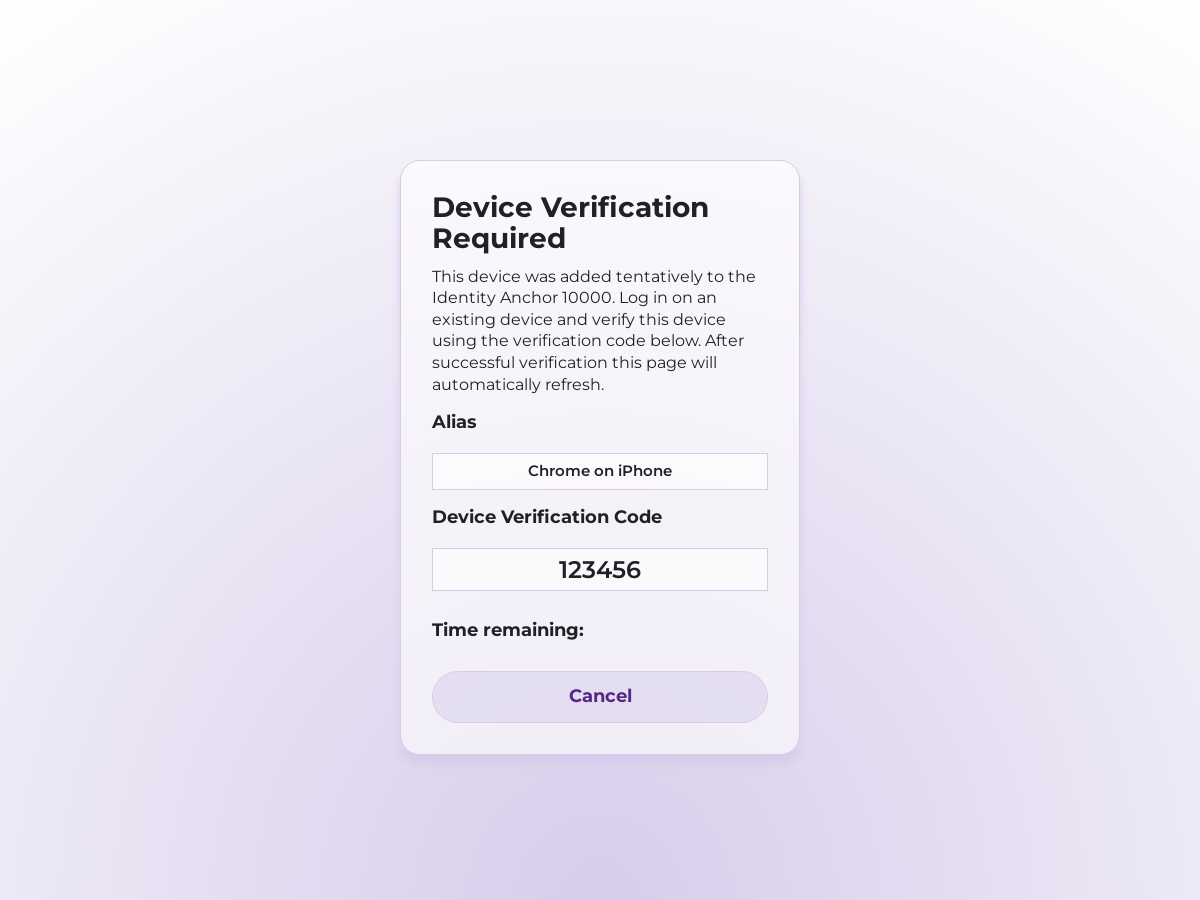
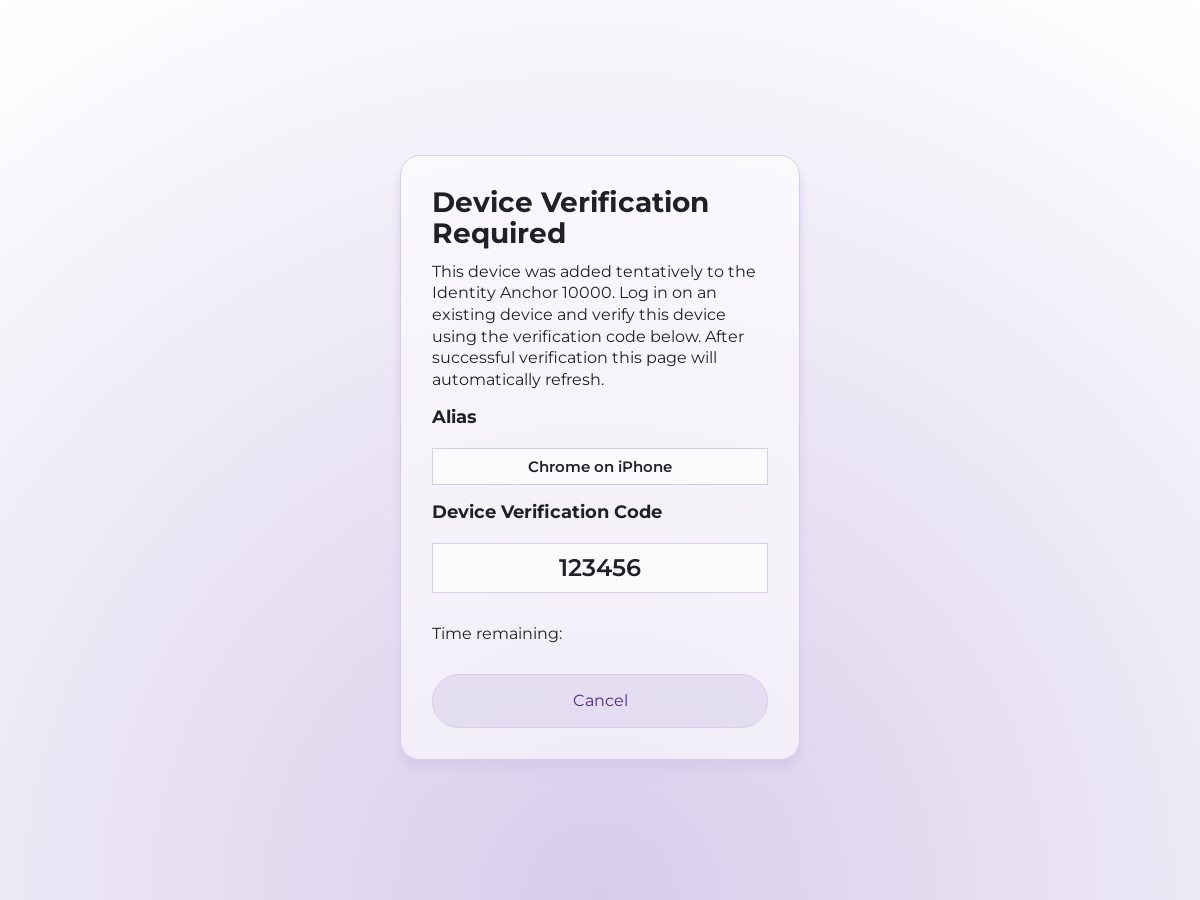
Close unclosed tags and more
I ran [`lit-analyzer`](https://github.com/runem/lit-analyzer) locally, which spotted a few issues with the code.
Those issues are fixed here.

We can't however add `lit-analyzer` to our pipeline just yet because of
some issues:
* https://github.com/runem/lit-analyzer/issues/284
* https://github.com/runem/lit-analyzer/issues/283

diff --git a/src/frontend/src/flows/recovery/recoverWith/phrase.ts b/src/frontend/src/flows/recovery/recoverWith/phrase.ts
@@ -26,8 +26,8 @@ const pageContent = (userNumber: bigint, message?: string) => html`
         background-color: unset;
       }
       50% {
-        background-color: #ED1E79;
-        border-color: #ED1E79;
+        background-color: #ed1e79;
+        border-color: #ed1e79;
       }
       100% {
         background-color: unset;
@@ -42,19 +42,28 @@ const pageContent = (userNumber: bigint, message?: string) => html`
   <article class="l-container c-card c-card--highlight">
     <hgroup>
       <h1 class="t-title t-title--main">Your seed phrase</h1>
-      <p class="t-lead">${
-        message !== undefined ? message : "Please provide your seed phrase"
-      }</p>
+      <p class="t-lead">
+        ${message !== undefined ? message : "Please provide your seed phrase"}
+      </p>
     </hgroup>
-    <textarea id="inputSeedPhrase" class="c-input" placeholder="${
-      userNumber + " above squirrel ..."
-    }"></textarea>
-    <details data-id="phrase-warnings" class="c-card c-card--highlight is-hidden">
-        <summary><span class="warnings-box-summary">Phrase may not be valid<span></summary>
-        <div id="warnings"></div>
+    <textarea
+      id="inputSeedPhrase"
+      class="c-input"
+      placeholder="${userNumber + " above squirrel ..."}"
+    ></textarea>
+    <details
+      data-id="phrase-warnings"
+      class="c-card c-card--highlight is-hidden"
+    >
+      <summary>
+        <span class="warnings-box-summary">Phrase may not be valid</span>
+      </summary>
+      <div id="warnings"></div>
     </details>
     <div class="c-button-group">
-      <button id="inputSeedPhraseCancel" class="c-button c-button--secondary">Cancel</button>
+      <button id="inputSeedPhraseCancel" class="c-button c-button--secondary">
+        Cancel
+      </button>
       <button id="inputSeedPhraseContinue" class="c-button">Continue</button>
     </div>
   </article>

diff --git a/src/frontend/src/flows/addDevice/welcomeView/showVerificationCode.ts b/src/frontend/src/flows/addDevice/welcomeView/showVerificationCode.ts
@@ -18,7 +18,7 @@ const pageContent = (
   tentativeRegistrationInfo: TentativeRegistrationInfo
 ) => html`
   <div class="l-container c-card c-card--highlight">
-    <hgroup>  
+    <hgroup>
       <h1 class="t-title t-title--main">Device Verification Required</h1>
       <p class="t-lead">
         This device was added tentatively to the Identity Anchor
@@ -28,18 +28,19 @@ const pageContent = (
       </p>
     </hgroup>
     <h2 class="t-title">Alias</h2>
-    <output class="c-input c-input--readonly t-vip t-vip--small">${alias}</output>
-    <h2 class="t-title">Device Verification Code</hs>
-    <output
-      id="verificationCode"
-      class="c-input c-input--readonly t-vip"
+    <output class="c-input c-input--readonly t-vip t-vip--small"
+      >${alias}</output
     >
+    <h2 class="t-title">Device Verification Code</h2>
+    <output id="verificationCode" class="c-input c-input--readonly t-vip">
       ${tentativeRegistrationInfo.verification_code}
     </output>
     <div class="l-stack">
       <p>Time remaining: <span id="timer"></span></p>
       <div class="l-stack">
-        <button id="showCodeCancel" class="c-button c-button--secondary">Cancel</button>
+        <button id="showCodeCancel" class="c-button c-button--secondary">
+          Cancel
+        </button>
       </div>
     </div>
   </div>

diff --git a/src/frontend/src/styleguide.ts b/src/frontend/src/styleguide.ts
@@ -152,7 +152,7 @@ export const styleguide = html`
         <section class="demo" aria-label="Paragraphs Demo">
           <hr class="l-divider" />
           <div class="l-divider l-divider--text" aria-label="Other Options">
-            <span class="l-divider__label" aria-hidden>Or</span>
+            <span class="l-divider__label" aria-hidden="true">Or</span>
           </div>
         </section>
         <p class="t-lead">
@@ -183,7 +183,7 @@ export const styleguide = html`
           </div>
 
           <div class="c-card c-card--warning">
-            <span class="c-card__icon" aria-hidden>${warningIcon}</span>
+            <span class="c-card__icon" aria-hidden="true">${warningIcon}</span>
             <div class="c-card__content">
               <h2 class="c-card__title t-title">Warning Card with Icon</h2>
               <p class="c-card__text t-paragraph">

diff --git a/src/frontend/src/flows/recovery/chooseRecoveryMechanism.ts b/src/frontend/src/flows/recovery/chooseRecoveryMechanism.ts
@@ -18,7 +18,7 @@ const pageContent = (devices: DeviceData[]) => html`
         class="c-button c-button--secondary"
         id="seedPhrase"
       >
-        <span aria-hidden>${seedPhraseIcon}</span>
+        <span aria-hidden="true">${seedPhraseIcon}</span>
         <div class="t-strong">Seed Phrase</div>
         <div class="t-weak">Use your own storage</div>
       </button>
@@ -27,7 +27,7 @@ const pageContent = (devices: DeviceData[]) => html`
         class="c-button c-button--secondary"
         id="securityKey"
       >
-        <span aria-hidden>${securityKeyIcon}</span>
+        <span aria-hidden="true">${securityKeyIcon}</span>
         <div class="t-strong">Security Key</div>
         <div class="t-weak">Use an extra security key</div>
       </button>

diff --git a/src/frontend/src/flows/manage/index.ts b/src/frontend/src/flows/manage/index.ts
@@ -100,7 +100,7 @@ const devicesSection = (
             Remove a device before you can add a new one.</span
           >
           <span class="t-link t-link--discreet">
-            <i class="t-link__icon" aria-hidden>+</i>
+            <i class="t-link__icon" aria-hidden=true>+</i>
             Add new device
           </span>
         </button>
@@ -125,7 +125,7 @@ const recoverySection = (
                 class="t-title__complication t-title__complication--end"
                 id="addRecovery"
               >
-                <i class="t-link__icon" aria-hidden>+</i>
+                <i class="t-link__icon" aria-hidden="true">+</i>
                 <span class="t-link t-link--discreet"
                   >Add recovery mechanism</span
                 >

diff --git a/src/frontend/src/components/anchorInput.ts b/src/frontend/src/components/anchorInput.ts
@@ -1,6 +1,7 @@
 import { html, TemplateResult } from "lit-html";
 import { withRef } from "../utils/utils";
 import { createRef, ref, Ref } from "lit-html/directives/ref.js";
+import { ifDefined } from "lit-html/directives/if-defined.js";
 import { DirectiveResult } from "lit-html/directive.js";
 import { parseUserNumber } from "../utils/userNumber";
 
@@ -106,7 +107,7 @@ export const mkAnchorInput = ({
         id="${inputId}"
         class="c-input c-input--vip"
         placeholder="Enter anchor"
-        value="${userNumber}"
+        value="${ifDefined(userNumber?.toString())}"
         @input=${inputFilter(isDigits, onBadInput)}
         @keydown=${inputFilter(isDigits, onBadInput)}
         @keyup=${inputFilter(isDigits, onBadInput)}

diff --git a/src/frontend/src/flows/authenticate/index.ts b/src/frontend/src/flows/authenticate/index.ts
@@ -89,8 +89,7 @@ const pageContent = (
         </p>
         ${derivationOrigin !== undefined
           ? html`
-        <p class="t-paragraph t-weak">
-          <span id="alternative-origin-chasm-toggle" class="t-action" @click="${chasmToggle}" >shared identity <span ${ref(
+        <p class="t-paragraph t-weak"><span id="alternative-origin-chasm-toggle" class="t-action" @click="${chasmToggle}" >shared identity <span ${ref(
               chasmToggleRef
             )} class="t-link__icon c-chasm__button">${caretDownIcon}</span></span><br/>
           <div ${ref(chasmRef)} class="c-chasm c-chasm--closed">

diff --git a/src/frontend/src/components/warnBox.ts b/src/frontend/src/components/warnBox.ts
@@ -20,7 +20,7 @@ export const warnBox = ({
   htmlElement = "aside",
 }: warnBoxProps): TemplateResult => {
   const contents: TemplateResult = html`
-    <span class="c-card__icon" aria-hidden>${warningIcon}</span>
+    <span class="c-card__icon" aria-hidden="true">${warningIcon}</span>
     <div class="c-card__content">
       <h3 class="t-title c-card__title">${title}</h3>
       <div data-role="warning-message" class="t-paragraph c-card__paragraph">

diff --git a/src/frontend/src/flows/recovery/pickRecoveryDevice.ts b/src/frontend/src/flows/recovery/pickRecoveryDevice.ts
@@ -5,7 +5,7 @@ const pageContent = () => html`
   <div class="l-container c-card c-card--highlight c-card--highlight">
     <h1 class="t-title t-title--main">Choose a device</h1>
     <div class="l-stack">
-      <h2 class="t-title">Recovery devices</div>
+      <h2 class="t-title">Recovery devices</h2>
       <ol class="c-list l-stack" id="deviceList"></ol>
     </div>
   </div>
